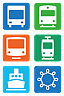
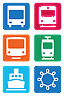
trains be red

Changed region(s): [[0.5312, 0.0, 0.9688, 0.3125]]

diff --git a/web/css/route_graph.less b/web/css/route_graph.less
@@ -93,7 +93,7 @@
     // Train
     .leg-12 {
         .leg-bar {
-            background-color: #3cac40;
+            background-color: #ce1141;
         }
         i {
             background-position: 18px -2px;
